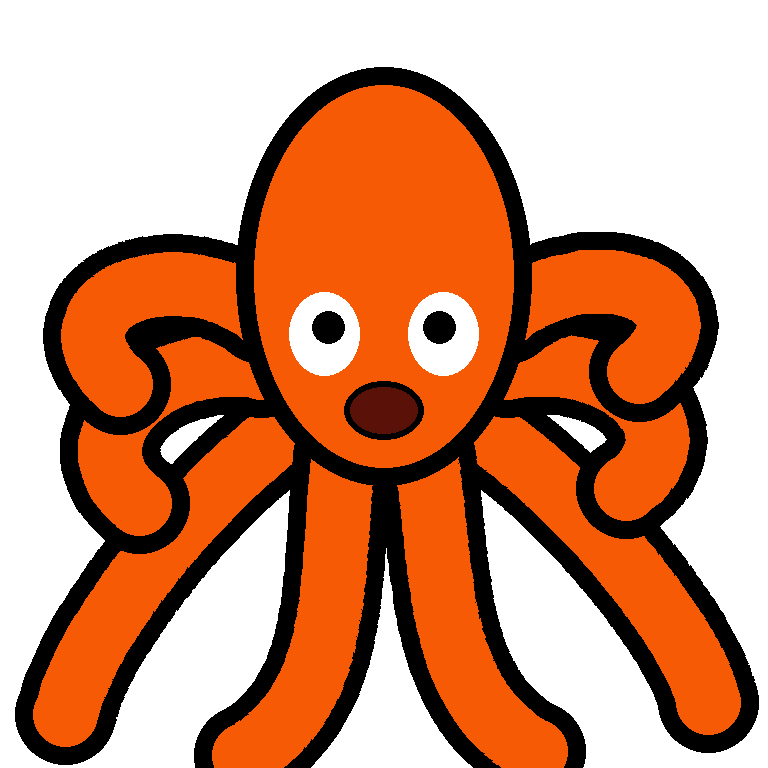
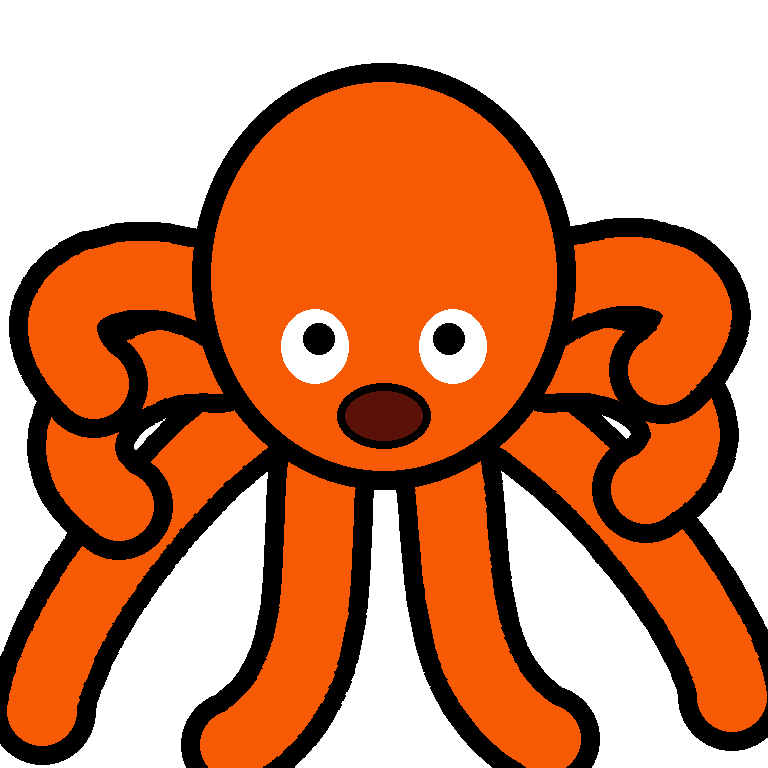
Осьминог ближе к логотипу и мужской Piper в Actions
Голова — широкий круглый купол, глаза в нижней части, щупальца
по сторонам. В workflow кэшируется и скачивается мужская модель
Piper ru_RU-dmitri-medium; женский запасной по-прежнему отключён.

diff --git a/scripts/octopus_avatar.py b/scripts/octopus_avatar.py
@@ -42,12 +42,35 @@ TENTACLE_ORDER = [2, 5, 1, 6, 0, 7, 3, 4]
 # Предпочтительный мужской голос и запасные темпы (Dmitry часто сбоит на +5%).
 MALE_VOICE = "ru-RU-DmitryNeural"
 DMITRY_RATES = ("-5%", "-8%", "+0%", "-3%", "+3%")
-PIPER_DMITRI = Path("/home/box/.zavod_tts/ru_RU-dmitri-medium.onnx")
-PIPER_MALE_MODELS = (
-    PIPER_DMITRI,
-    Path("/home/box/.zavod_tts/ru_RU-ruslan-medium.onnx"),
-    Path("/home/box/.zavod_tts/ru_RU-denis-medium.onnx"),
-)
+def _piper_male_models():
+    """Мужские модели Piper: переменные окружения, кэш Actions, локальный ящик."""
+    names = (
+        "ru_RU-dmitri-medium.onnx",
+        "ru_RU-ruslan-medium.onnx",
+        "ru_RU-denis-medium.onnx",
+    )
+    out = []
+    env = os.environ.get("PIPER_MODEL")
+    if env:
+        out.append(Path(env))
+    roots = [
+        Path(os.environ["PIPER_DIR"]) if os.environ.get("PIPER_DIR") else None,
+        Path.home() / ".local/share/piper",
+        Path("/home/box/.zavod_tts"),
+        Path("/opt/piper"),
+    ]
+    for root in roots:
+        if not root:
+            continue
+        for name in names:
+            cand = root / name
+            if cand not in out:
+                out.append(cand)
+    return tuple(out)
+
+
+PIPER_DMITRI = Path.home() / ".local/share/piper" / "ru_RU-dmitri-medium.onnx"
+PIPER_MALE_MODELS = _piper_male_models()  # пересчитываем при импорте; tts_piper смотрит exists()
 
 
 def log(*a):
@@ -75,28 +98,29 @@ def _stroke(draw, pts, width, fill):
 
 
 def _tentacle_specs(phase=0.0, point=0.0, point_side=1):
+    # Координаты в единицах rx широкой круглой головы (как купол на логотипе).
     specs = [
-        ((-0.95, 0.28), (-1.70, -0.25), (-2.70, 0.20), (-2.05, 0.78)),
-        ((-0.95, 0.70), (-1.85, 0.55), (-2.55, 1.25), (-1.95, 1.70)),
-        ((-0.72, 1.15), (-1.55, 1.70), (-2.45, 2.85), (-2.55, 3.35)),
-        ((-0.32, 1.40), (-0.45, 2.25), (-0.35, 3.25), (-1.15, 3.70)),
-        ((0.32, 1.40), (0.45, 2.25), (0.35, 3.25), (1.15, 3.70)),
-        ((0.72, 1.15), (1.55, 1.70), (2.45, 2.85), (2.55, 3.35)),
-        ((0.95, 0.70), (1.85, 0.55), (2.55, 1.25), (1.95, 1.70)),
-        ((0.95, 0.28), (1.70, -0.25), (2.70, 0.20), (2.05, 0.78)),
+        ((-0.92, 0.12), (-1.50, -0.22), (-2.20, 0.10), (-1.68, 0.58)),
+        ((-0.96, 0.48), (-1.58, 0.40), (-2.10, 0.95), (-1.58, 1.28)),
+        ((-0.78, 0.82), (-1.35, 1.20), (-2.00, 2.05), (-2.05, 2.48)),
+        ((-0.35, 1.02), (-0.45, 1.65), (-0.32, 2.35), (-0.92, 2.70)),
+        ((0.35, 1.02), (0.45, 1.65), (0.32, 2.35), (0.92, 2.70)),
+        ((0.78, 0.82), (1.35, 1.20), (2.00, 2.05), (2.05, 2.48)),
+        ((0.96, 0.48), (1.58, 0.40), (2.10, 0.95), (1.58, 1.28)),
+        ((0.92, 0.12), (1.50, -0.22), (2.20, 0.10), (1.68, 0.58)),
     ]
     # Поза «указывает вверх на слайды» для правого (или левого) mid-hook.
     point_idx = 6 if point_side >= 0 else 1
     if point_side >= 0:
-        point_pose = ((0.95, 0.50), (1.15, -0.15), (1.05, -1.15), (0.85, -1.85))
+        point_pose = ((0.92, 0.35), (1.10, -0.15), (1.00, -0.95), (0.78, -1.55))
     else:
-        point_pose = ((-0.95, 0.50), (-1.15, -0.15), (-1.05, -1.15), (-0.85, -1.85))
+        point_pose = ((-0.92, 0.35), (-1.10, -0.15), (-1.00, -0.95), (-0.78, -1.55))
 
     out = []
     for i, (a, b, c, e) in enumerate(specs):
         ph = phase + i * 0.73
-        sx = 0.08 * math.sin(ph)
-        sy = 0.06 * math.sin(ph * 0.85 + 1.1)
+        sx = 0.07 * math.sin(ph)
+        sy = 0.05 * math.sin(ph * 0.85 + 1.1)
         b = (b[0] + sx * 0.35, b[1] + sy * 0.25)
         c = (c[0] + sx * 0.80, c[1] + sy * 0.65)
         e = (e[0] + sx, e[1] + sy)
@@ -109,8 +133,8 @@ def _tentacle_specs(phase=0.0, point=0.0, point_side=1):
             e = (e[0] + (pe[0] - e[0]) * k, e[1] + (pe[1] - e[1]) * k)
         elif point > 0 and i == (7 if point_side >= 0 else 0):
             # соседнее верхнее щупальце чуть поднимается вместе с жестом
-            e = (e[0] * (1 - 0.12 * point), e[1] - 0.55 * point)
-            c = (c[0], c[1] - 0.30 * point)
+            e = (e[0] * (1 - 0.12 * point), e[1] - 0.45 * point)
+            c = (c[0], c[1] - 0.25 * point)
         out.append((a, b, c, e))
     return out
 
@@ -119,11 +143,12 @@ def draw_octopus(size=SPRITE_SIZE, mouth=0.0, blink=0.0, phase=0.0, point=0.0, p
     """Спрайт осьминога. mouth, blink, point — от 0 до 1."""
     img = Image.new("RGBA", (size, size), (0, 0, 0, 0))
     draw = ImageDraw.Draw(img)
+    # Широкая круглая голова-купол, как на логотипе (не вытянутое яйцо).
     cx, cy = size * 0.50, size * 0.36
-    rx = size * 0.168
-    ry = rx * 1.48
-    outline = max(6, int(rx * 0.28))
-    tent_outer = max(10, int(rx * 0.78))
+    rx = size * 0.225
+    ry = rx * 1.12
+    outline = max(6, int(rx * 0.22))
+    tent_outer = max(10, int(rx * 0.62))
     tent_inner = max(6, tent_outer - outline)
 
     specs = _tentacle_specs(phase, point, point_side)
@@ -143,41 +168,42 @@ def draw_octopus(size=SPRITE_SIZE, mouth=0.0, blink=0.0, phase=0.0, point=0.0, p
     )
     draw.ellipse([cx - rx, cy - ry, cx + rx, cy + ry], fill=ORANGE)
 
-    eye_rx, eye_ry = rx * 0.27, rx * 0.32
-    eye_y = cy + ry * 0.30
-    gap = rx * 0.46
-    pupil_r = rx * 0.125
+    # Глаза в нижней части широкой головы, как на логотипе.
+    eye_rx, eye_ry = rx * 0.195, rx * 0.215
+    eye_y = cy + ry * 0.36
+    gap = rx * 0.40
+    pupil_r = rx * 0.09
     for sign in (-1, 1):
         ex, ey = cx + sign * gap, eye_y
         if blink >= 0.85:
             w = eye_rx * 1.05
-            draw.line([(ex - w, ey), (ex + w, ey)], fill=BLACK, width=max(4, int(rx * 0.10)))
+            draw.line([(ex - w, ey), (ex + w, ey)], fill=BLACK, width=max(4, int(rx * 0.08)))
         else:
             ryy = eye_ry * (1.0 - 0.88 * blink)
             draw.ellipse([ex - eye_rx, ey - ryy, ex + eye_rx, ey + ryy], fill=WHITE)
             if blink < 0.55:
                 pr = pupil_r * (1.0 - 0.25 * blink)
-                px = ex - sign * rx * 0.03
-                py = ey - rx * 0.05  # смотрит немного вверх, на слайды
+                px = ex - sign * rx * 0.025
+                py = ey - rx * 0.04  # смотрит немного вверх, на слайды
                 draw.ellipse([px - pr, py - pr, px + pr, py + pr], fill=BLACK)
 
-    mx, my = cx, cy + ry * 0.70
+    mx, my = cx, cy + ry * 0.72
     if mouth < 0.10:
-        w = rx * 0.26
+        w = rx * 0.22
         pts = []
         for i in range(15):
             t = i / 14
             pts.append((
                 int(round(mx - w + 2 * w * t)),
-                int(round(my + rx * 0.07 * math.sin(math.pi * t))),
+                int(round(my + rx * 0.055 * math.sin(math.pi * t))),
             ))
-        draw.line(pts, fill=BLACK, width=max(5, int(rx * 0.11)), joint="curve")
-        r = max(2, int(rx * 0.055))
+        draw.line(pts, fill=BLACK, width=max(5, int(rx * 0.09)), joint="curve")
+        r = max(2, int(rx * 0.045))
         for p in (pts[0], pts[-1]):
             draw.ellipse([p[0] - r, p[1] - r, p[0] + r, p[1] + r], fill=BLACK)
     else:
-        mw = rx * (0.18 + 0.28 * mouth)
-        mh = rx * (0.08 + 0.32 * mouth)
+        mw = rx * (0.16 + 0.24 * mouth)
+        mh = rx * (0.07 + 0.26 * mouth)
         draw.ellipse([mx - mw, my - mh, mx + mw, my + mh], fill=BLACK)
         if mouth > 0.22:
             inset = max(3, rx * 0.045)
@@ -350,11 +376,12 @@ def tts_dmitry(text: str, mp3: Path, attempts_per_rate: int = 1):
 
 def tts_piper_male(text: str, mp3: Path):
     """Запасной мужской русский голос (Piper dmitri / ruslan / denis). Без женских."""
-    model = next((p for p in PIPER_MALE_MODELS if p.exists()), None)
+    model = next((p for p in _piper_male_models() if p.exists()), None)
     if model is None:
         raise RuntimeError(
-            "Нет мужского голоса: edge-tts Dmitry не ответил и модели Piper не найдены "
-            f"({PIPER_DMITRI})"
+            "Нет мужского голоса: edge-tts Dmitry не ответил и модели Piper не найдены. "
+            "Ожидается мужская ru_RU-dmitri-medium в $PIPER_MODEL / $PIPER_DIR "
+            "или ~/.local/share/piper/"
         )
     wav = mp3.with_suffix(".wav")
     proc = subprocess.run(
